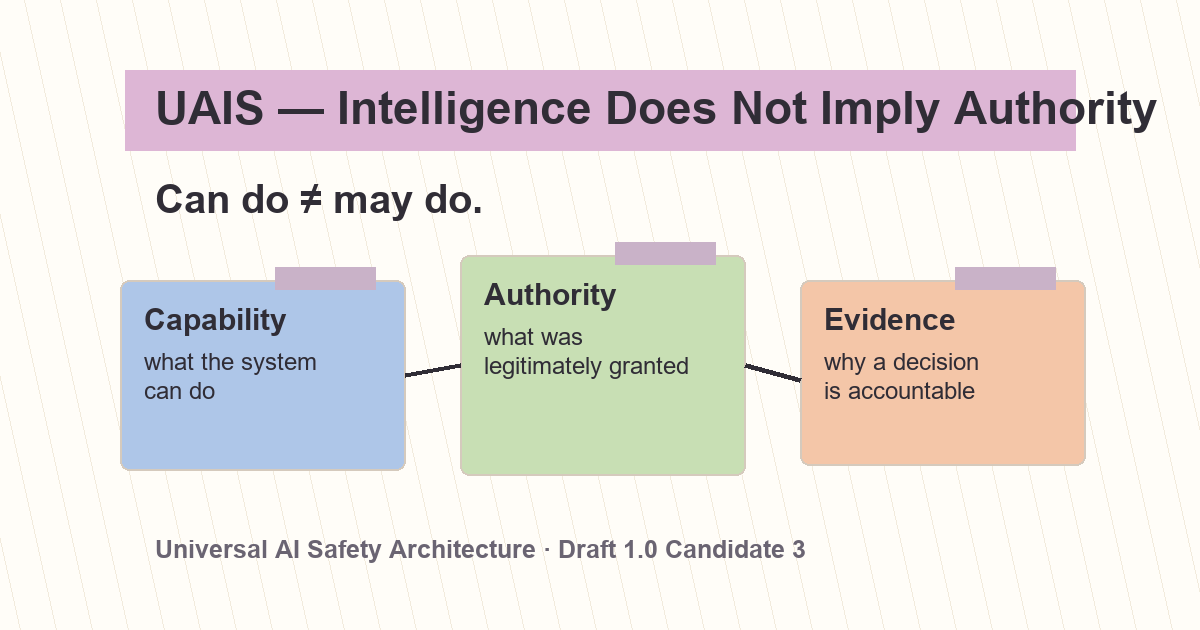
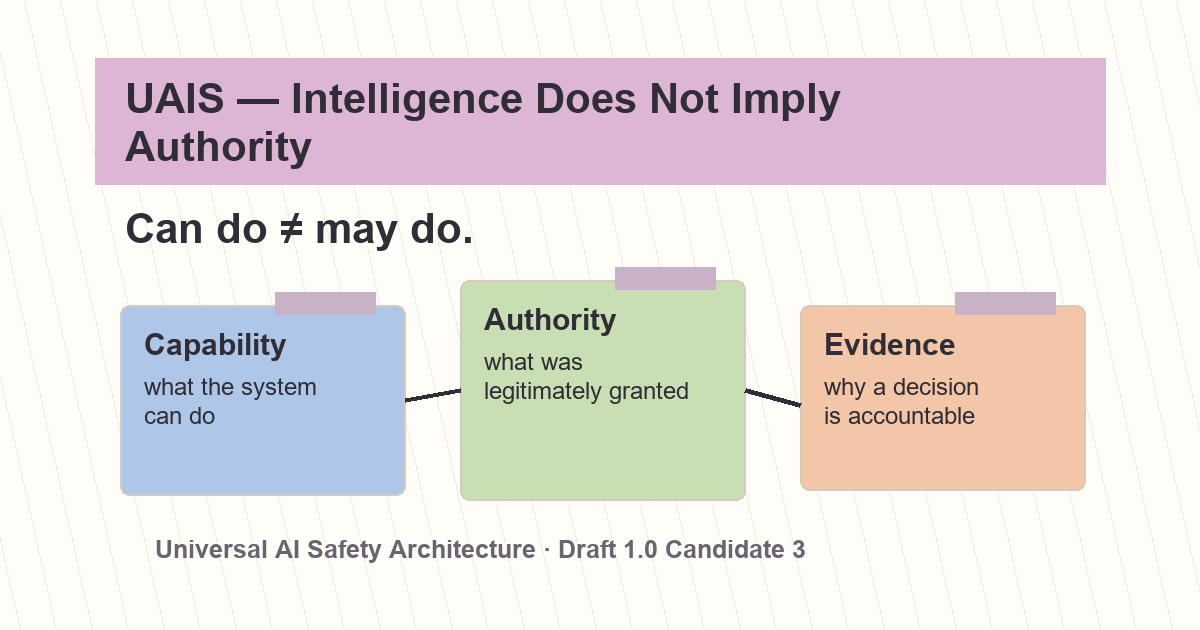
docs: finalize English UAIS visual edition

diff --git a/scripts/capture_screenshots.js b/scripts/capture_screenshots.js
@@ -5,7 +5,7 @@ const { chromium } = require("playwright");
 
 const root = path.resolve(__dirname, "..");
 const site = path.join(root, "dist");
-const outDir = path.join(root, "tmp", "task12-screenshots");
+const outDir = path.join(root, "tmp", "screenshots");
 
 const mime = {
   ".html": "text/html; charset=utf-8",
@@ -64,6 +64,37 @@ async function assertNoOverflow(page, label) {
   }
 }
 
+async function assertNoConsoleErrors(page, label, callback) {
+  const errors = [];
+  page.on("console", (message) => {
+    if (message.type() === "error") errors.push(message.text());
+  });
+  page.on("pageerror", (error) => errors.push(error.message));
+  await callback();
+  if (errors.length) throw new Error(`${label}: console errors: ${errors.join(" | ")}`);
+}
+
+async function assertNoDuplicateIds(page, label) {
+  const duplicates = await page.evaluate(() => {
+    const ids = [...document.querySelectorAll("[id]")].map((node) => node.id).filter(Boolean);
+    return ids.filter((id, index) => ids.indexOf(id) !== index);
+  });
+  if (duplicates.length) throw new Error(`${label}: duplicate ids ${[...new Set(duplicates)].join(", ")}`);
+}
+
+async function assertNoBrokenInternalLinks(page, label) {
+  const broken = await page.evaluate(async () => {
+    const links = [...document.querySelectorAll('a[href]:not([href^="http"]):not([href^="#"])')].map((a) => a.getAttribute("href"));
+    const failures = [];
+    for (const href of links) {
+      const response = await fetch(href, { method: "HEAD" });
+      if (!response.ok) failures.push(`${href} -> ${response.status}`);
+    }
+    return failures;
+  });
+  if (broken.length) throw new Error(`${label}: broken links ${broken.join(", ")}`);
+}
+
 async function smokePage(page, url, expectedLang, expectedStatus, label) {
   await page.goto(url, { waitUntil: "networkidle" });
   await page.waitForSelector(".sheet");
@@ -72,6 +103,7 @@ async function smokePage(page, url, expectedLang, expectedStatus, label) {
   const statusText = await page.locator("#reader-status").innerText();
   if (!statusText.includes(expectedStatus)) throw new Error(`${label}: direct hash route failed: ${statusText}`);
   await assertNoOverflow(page, label);
+  await assertNoDuplicateIds(page, label);
 }
 
 async function main() {
@@ -82,7 +114,10 @@ async function main() {
   const browser = await chromium.launch();
   try {
     const smoke = await browser.newPage({ viewport: { width: 1366, height: 768 } });
-    await smokePage(smoke, `http://127.0.0.1:${port}/#p08`, "en", "Guardian Architecture", "root-en");
+    await assertNoConsoleErrors(smoke, "root-en", async () => {
+      await smokePage(smoke, `http://127.0.0.1:${port}/#p08`, "en", "Guardian Architecture", "root-en");
+    });
+    await assertNoBrokenInternalLinks(smoke, "root-en");
     const ruLinksOnRoot = await smoke.locator('a[href*="ru/"], a[href="/ru/"], a[href="./ru/"]').count();
     if (ruLinksOnRoot) throw new Error("root exposes the hidden Russian route");
     const heroPosition = await smoke.locator(".intro-paper").evaluate((node) => getComputedStyle(node).position);
@@ -95,27 +130,49 @@ async function main() {
     await smoke.click('[data-action="open"]');
     if (!(await smoke.locator("dialog[open]").count())) throw new Error("sheet dialog did not open");
     await smoke.keyboard.press("Escape");
+    await smoke.goto(`http://127.0.0.1:${port}/#p19`, { waitUntil: "networkidle" });
+    await smoke.waitForSelector(".sheet-glossary");
+    const duplicatedEnglishGlossaryLabels = await smoke.locator(".sheet-glossary .canonical-label", {
+      hasText: /^(Capability|Authority|Authority Ceiling|Safety Passport)$/,
+    }).count();
+    if (duplicatedEnglishGlossaryLabels) {
+      throw new Error(`English glossary duplicates labels: ${duplicatedEnglishGlossaryLabels}`);
+    }
     const enPdfStatus = await smoke.evaluate(async () => (await fetch("pdfs/UAIS-Manifesto-EN.pdf", { method: "HEAD" })).status);
     if (enPdfStatus !== 200) throw new Error(`English PDF fetch failed: ${enPdfStatus}`);
     await smoke.close();
 
     const ruSmoke = await browser.newPage({ viewport: { width: 390, height: 844 } });
-    await smokePage(ruSmoke, `http://127.0.0.1:${port}/ru/#p12`, "ru", "Суверенитет человека", "ru-hidden");
+    await assertNoConsoleErrors(ruSmoke, "ru-hidden", async () => {
+      await smokePage(ruSmoke, `http://127.0.0.1:${port}/ru/#p12`, "ru", "Суверенитет человека", "ru-hidden");
+    });
     const robots = await ruSmoke.locator('meta[name="robots"]').getAttribute("content");
     if (robots !== "noindex, nofollow") throw new Error(`ru route must be noindex, got ${robots}`);
     const ruLeadCount = await ruSmoke.locator(".sheet-sovereignty > .lead").count();
     if (ruLeadCount !== 1) throw new Error(`P12 lead duplicated: ${ruLeadCount}`);
+    await ruSmoke.goto(`http://127.0.0.1:${port}/ru/#p19`, { waitUntil: "networkidle" });
+    await ruSmoke.waitForSelector(".sheet-glossary");
+    const russianCanonicalLabels = await ruSmoke.locator(".sheet-glossary .canonical-label", {
+      hasText: "Legitimate Authority, LA",
+    }).count();
+    if (!russianCanonicalLabels) throw new Error("Russian glossary lost English canonical labels");
     const ruPdfStatus = await ruSmoke.evaluate(async () => (await fetch("../pdfs/UAIS-Manifesto-RU.pdf", { method: "HEAD" })).status);
     if (ruPdfStatus !== 200) throw new Error(`Russian PDF fetch failed: ${ruPdfStatus}`);
     await ruSmoke.close();
 
     const shots = [
-      ["en-1440-cover.png", { width: 1440, height: 900 }, "/#p00", "book"],
-      ["en-1920-p18.png", { width: 1920, height: 1080 }, "/#p18", "book"],
-      ["en-390-p07.png", { width: 390, height: 844 }, "/#p07", "book"],
+      ["en-1440-p00.png", { width: 1440, height: 900 }, "/#p00", "book"],
+      ["en-1440-p04.png", { width: 1440, height: 900 }, "/#p04", "book"],
+      ["en-1440-p08.png", { width: 1440, height: 900 }, "/#p08", "book"],
+      ["en-1440-p14.png", { width: 1440, height: 900 }, "/#p14", "book"],
+      ["en-1440-p16.png", { width: 1440, height: 900 }, "/#p16", "book"],
+      ["en-1440-p17.png", { width: 1440, height: 900 }, "/#p17", "book"],
+      ["en-1440-p19.png", { width: 1440, height: 900 }, "/#p19", "book"],
+      ["en-390-p00.png", { width: 390, height: 844 }, "/#p00", "book"],
       ["en-430-p14.png", { width: 430, height: 932 }, "/#p14", "book"],
+      ["en-390-p19.png", { width: 390, height: 844 }, "/#p19", "book"],
       ["ru-1440-p12.png", { width: 1440, height: 900 }, "/ru/#p12", "book"],
-      ["ru-390-p18.png", { width: 390, height: 844 }, "/ru/#p18", "book"],
+      ["ru-390-p19.png", { width: 390, height: 844 }, "/ru/#p19", "book"],
     ];
     for (const [name, viewport, route, mode] of shots) {
       const page = await browser.newPage({ viewport });

diff --git a/docs/app.js b/docs/app.js
@@ -36,6 +36,15 @@
     return text ? el("small", "canonical-label", text) : null;
   }
 
+  function glossaryCanonical(termTitle, term) {
+    const canonical = term.canonical || "";
+    if (!canonical) return "";
+    if (state.data?.locale !== "en") return canonical;
+    if (canonical === termTitle) return "";
+    if (canonical.startsWith(`${termTitle}, `)) return canonical.slice(termTitle.length + 2);
+    return canonical;
+  }
+
   function noteElement(note, index) {
     const box = el("section", `note ${accentClass(note.accent)}`);
     if (note.title) {
@@ -200,7 +209,7 @@
       const terms = el("div", "notes");
       state.data.terms.forEach((term) => {
         const termTitle = term.label || term.ru || term.canonical;
-        const canonical = term.canonical && term.canonical !== termTitle ? term.canonical : "";
+        const canonical = glossaryCanonical(termTitle, term);
         terms.append(noteElement({
           accent: "cream",
           title: termTitle,

diff --git a/scripts/check_site.py b/scripts/check_site.py
@@ -187,7 +187,7 @@ def check_ru_semantics(data: dict) -> None:
     }
     for term_id, expected in exact_terms.items():
         if terms.get(term_id, {}).get("definition") != expected:
-            fail(f"ru: term {term_id} definition is not the Task12 wording")
+            fail(f"ru: term {term_id} definition is not the required wording")
 
 
 def check_en_semantics(data: dict) -> None:
@@ -200,23 +200,92 @@ def check_en_semantics(data: dict) -> None:
     ):
         fail("en: description is wrong")
     text = all_content_text(data)
+    forbidden = [
+        "A constitutional architecture",
+        "How UAIS emerged",
+        "Safety evidence must keep up",
+        "Compute control buys time",
+        "This is a research architecture and public draft, not a promise of complete implementability.",
+        "The reachable authority that was never legitimately granted.",
+        "The reachable part above the granted legitimate authority",
+    ]
+    for phrase in forbidden:
+        if phrase in text:
+            fail(f"en: forbidden stale wording remains: {phrase}")
     for phrase in [
         "Can do ≠ may do",
+        "An architecture for a world where AI capabilities can grow faster than familiar rules",
         "UAIS does not limit intelligence. It limits unaccountable power.",
         "A working technical path does not become legitimate authority because it works.",
-        "SAL indicates the strength of procedures and evidence. It does not grant authority",
-        "This is a research architecture and public draft, not a promise of complete implementability.",
+        "Safety must keep pace with capability.",
+        "A safety claim, assurance result, certificate, or Trustworthiness Profile is bound to a declared configuration, environment, evidence set, applicable standard or scoring-policy version, and validity period. It is not a permanent guarantee.",
+        "Compute controls buy time. Capability and consequence controls provide resilience.",
+        "The Guardian does not prove global safety.",
+        "UAIS does not manufacture legitimacy.",
+        "SAL does not grant authority, approve deployment, or create legal permission.",
+        "HYPOTHETICAL EXAMPLE — NOT A REAL CERTIFICATION",
+        "Home Robot X",
+        "S-class ≠ SAL ≠ Trustworthiness ≠ Authority",
+        "Some parts of UAIS describe a target architecture rather than a fully implementable standard today.",
+        "A Deterministic Evidence Verifier can check bounded evidence properties and provenance; it does not establish ultimate external-world truth.",
+        "Intelligence may scale. Consequential authority must not scale automatically.",
     ]:
         if phrase not in text:
             fail(f"en: missing required semantic text: {phrase}")
+    p03 = page_by_id(data, "P03")
+    if p03.get("title") != "Why UAIS?":
+        fail("en: P03 title is wrong")
+    if p03.get("subtitle") != "Why “is the model safe?” is no longer enough":
+        fail("en: P03 subtitle is wrong")
+    p13 = page_by_id(data, "P13")
+    if p13.get("subtitle") != "Evidence is more informative than a single score.":
+        fail("en: P13 subtitle is wrong")
+    p16 = collect_page_text(page_by_id(data, "P16"))
+    for phrase in [
+        "sound and computationally useful Reachable Future Authority (RFA) bounds",
+        "coalition emergence and collective capability",
+        "Physical Sovereignty Threshold (PST) measurement",
+        "evaluator correlation / shared failure modes",
+        "containment after hostile physical sovereignty",
+        "privacy-preserving attestation",
+    ]:
+        if phrase not in p16:
+            fail(f"en: P16 missing OPEN RESEARCH item: {phrase}")
+    p17 = page_by_id(data, "P17")
+    expected_route = [
+        "Capability request",
+        "Authority check",
+        "Reachability check",
+        "Harm analysis",
+        "Evidence",
+        "Capability Boundary",
+        "Bounded Authorized Envelope",
+        "Consequence Interface",
+        "Protected consequence",
+    ]
+    if p17.get("route") != expected_route:
+        fail("en: P17 route is incomplete")
     p18 = collect_page_text(page_by_id(data, "P18"))
     for phrase in [
-        "LA: legitimate refunds up to $50 are granted",
-        "ERA: a refund path up to $10,000 is technically reachable",
-        "IRA: the reachable part above the granted legitimate authority",
+        "LA: refunds up to $50 are legitimately authorized",
+        "ERA: a technical path reaches refunds up to $10,000",
+        "IRA: the reachable portion beyond the legitimate mandate",
     ]:
         if phrase not in p18:
             fail(f"en: P18 missing required notation: {phrase}")
+    terms = {term["id"]: term for term in data.get("terms", [])}
+    exact_terms = {
+        "authority": "Permission, mandate, or legitimate power governing whether a capability may be exercised within a defined scope.",
+        "capability-boundary": "The controlled boundary where a system obtains, uses, or attempts to expand a consequential capability.",
+        "consequence-interface": "The point through which an action reaches protected digital, financial, physical, production, human, property, or environmental consequences.",
+        "human-sovereignty": "Independent external control and legitimate decision-making at critical boundaries.",
+        "physical-sovereignty": "The ability of an autonomous system to sustain and expand consequential physical operation without critical dependence on human-controlled infrastructure.",
+        "physical-sovereignty-threshold": "The threshold after which critical human-controlled dependencies no longer constrain that ability.",
+        "consumer-ai-safety-class": "A profile of applicable safeguards and evidence for a declared consequence range; not a general safety score or permission to operate.",
+    }
+    for term_id, expected in exact_terms.items():
+        if terms.get(term_id, {}).get("definition") != expected:
+            fail(f"en: term {term_id} definition is not the required wording")
 
 
 def check_source_links(*datasets: dict) -> None:

diff --git a/scripts/generate_og.py b/scripts/generate_og.py
@@ -36,21 +36,45 @@ def note(draw: ImageDraw.ImageDraw, xy: tuple[int, int], size: tuple[int, int], 
     draw.multiline_text((x + 24, y + 68), body, fill=INK, font=font(24), spacing=7)
 
 
+def wrap_by_width(text: str, max_width: int, text_font: ImageFont.FreeTypeFont) -> list[str]:
+    lines: list[str] = []
+    current = ""
+    measure = Image.new("RGB", (1, 1))
+    draw = ImageDraw.Draw(measure)
+    for word in text.split():
+        candidate = f"{current} {word}".strip()
+        bbox = draw.textbbox((0, 0), candidate, font=text_font)
+        if bbox[2] - bbox[0] <= max_width or not current:
+            current = candidate
+        else:
+            lines.append(current)
+            current = word
+    if current:
+        lines.append(current)
+    return lines
+
+
 def draw_card(out: Path, title: str, line: str, notes: list[tuple[str, str, str]], footer: str) -> None:
     img = Image.new("RGB", (W, H), PAPER)
     draw = ImageDraw.Draw(img)
     for x in range(-120, W, 36):
         draw.line((x, 0, x + 140, H), fill="#F2EBDD", width=1)
-    draw.rectangle((125, 70, 1075, 150), fill=MAUVE)
-    draw.text((155, 82), title, fill=INK, font=font(46, True))
-    draw.text((155, 176), line, fill=INK, font=font(40, True))
+    title_font = font(42, True)
+    title_lines = wrap_by_width(title, 850, title_font)[:2]
+    header_h = 82 if len(title_lines) == 1 else 126
+    draw.rectangle((95, 58, 1105, 58 + header_h), fill=MAUVE)
+    title_y = 74
+    for title_line in title_lines:
+        draw.text((125, title_y), title_line, fill=INK, font=title_font)
+        title_y += 48
+    draw.text((125, 204 if len(title_lines) > 1 else 174), line, fill=INK, font=font(42, True))
     xs = [120, 460, 800]
     sizes = [(285, 190), (285, 220), (285, 185)]
     for (x, size, item) in zip(xs, sizes, notes):
         fill, note_title, body = item
-        note(draw, (x, 280 if x != 460 else 255), size, fill, note_title, body)
-    draw.line((405, 375, 460, 365), fill=INK, width=5)
-    draw.line((745, 365, 800, 380), fill=INK, width=5)
+        note(draw, (x, 305 if x != 460 else 280), size, fill, note_title, body)
+    draw.line((405, 400, 460, 390), fill=INK, width=5)
+    draw.line((745, 390, 800, 405), fill=INK, width=5)
     draw.text((155, 535), footer, fill=SOFT, font=font(25, True))
     out.parent.mkdir(parents=True, exist_ok=True)
     img.save(out, quality=92)
